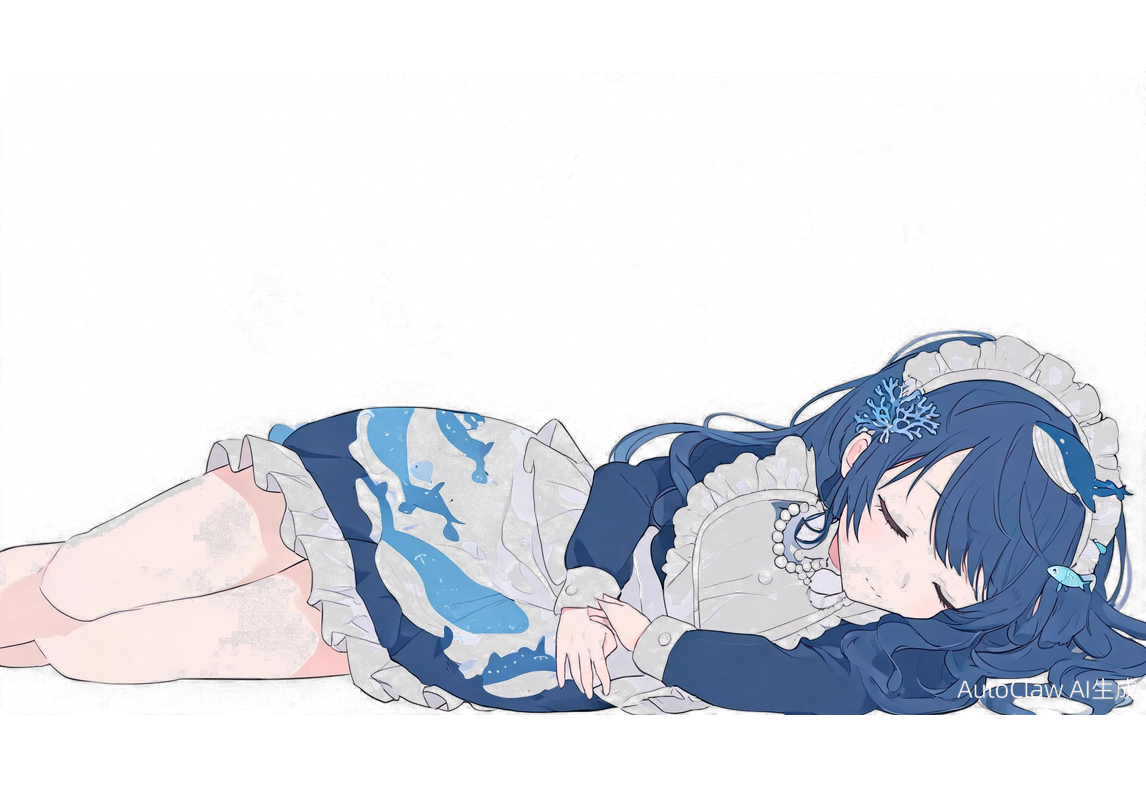
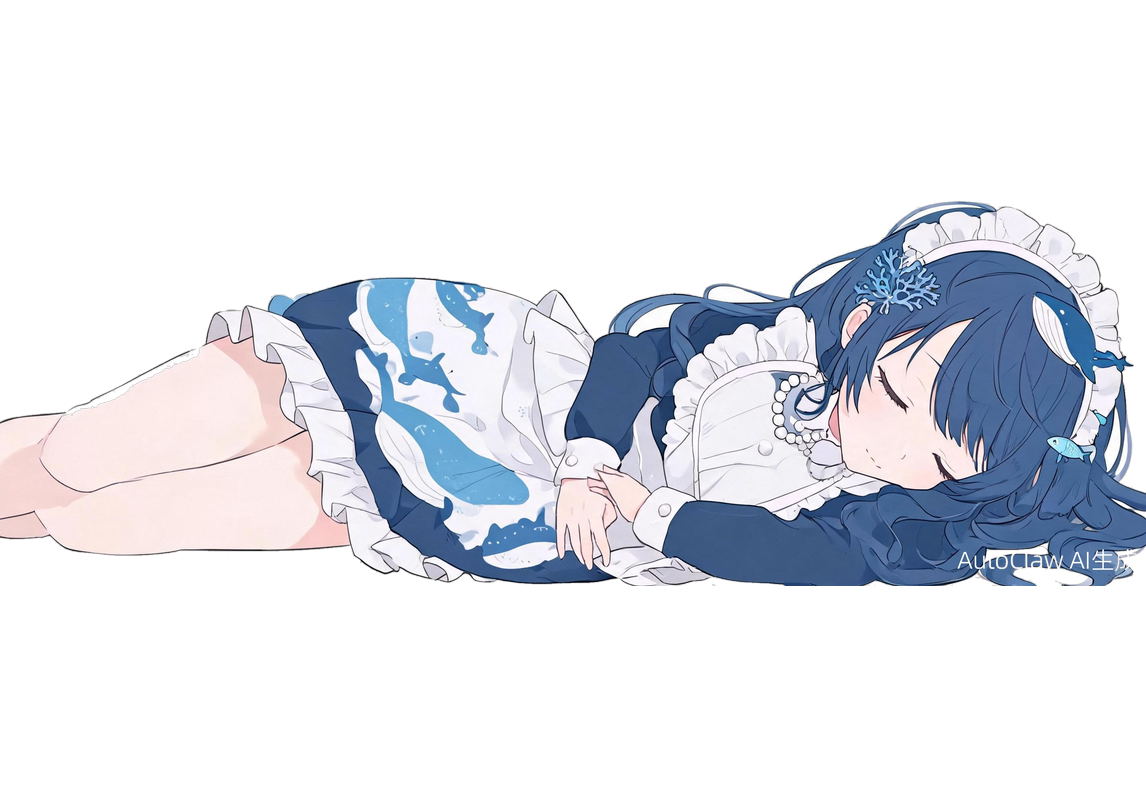
v6.56：pro 闭眼贴边图重抠(连通域+内部洞修复，左右+下，其他图未动) + 全局快捷键 Ctrl+Alt+O 截图OCR(截全屏→识别→发AI分析)

diff --git a/desktop_pet.py b/desktop_pet.py
@@ -676,8 +676,8 @@ BLINK_OFFSETS = {
 }
 
 
-def _hotkey_filter_factory(callback):
-    """创建全局热键过滤器（WM_HOTKEY）"""
+def _hotkey_filter_factory(callbacks):
+    """创建全局热键过滤器（WM_HOTKEY）。callbacks: {hotkey_id: callback}"""
     import ctypes.wintypes  # 必须显式导入（Python 3.14 中 ctypes.wintypes 不随 ctypes 自动加载）
     from PySide6.QtCore import QAbstractNativeEventFilter
     class _HotkeyFilter(QAbstractNativeEventFilter):
@@ -687,9 +687,11 @@ def _hotkey_filter_factory(callback):
                 et = bytes(eventType) if hasattr(eventType, '__bytes__') else str(eventType).encode('utf-8', 'ignore')
                 if b'windows_generic_MSG' in et:
                     msg = ctypes.wintypes.MSG.from_address(int(message))
-                    if msg.message == 0x0312 and msg.wParam == 1:  # WM_HOTKEY, id=1
-                        callback()
-                        return True, 0
+                    if msg.message == 0x0312:  # WM_HOTKEY
+                        cb = callbacks.get(msg.wParam)
+                        if cb:
+                            cb()
+                            return True, 0
             except Exception:
                 pass
             return False, 0
@@ -740,15 +742,19 @@ class PetWidget(QWidget):
         self.ai_status_signal.connect(self._update_ai_status)
         self.wakeup_signal.connect(self._display_wakeup)
         self.confirm_signal.connect(lambda fn: fn())  # 确认回调在主线程执行
-        # 全局快捷键 Ctrl+Alt+P 呼出
+        # 全局快捷键 Ctrl+Alt+P 呼出 / Ctrl+Alt+S 截图 OCR
         self._hotkey_installed = False
         try:
             app = QApplication.instance()
             if app is not None:
-                self._hotkey_filter = _hotkey_filter_factory(self._on_global_hotkey)
+                self._hotkey_filter = _hotkey_filter_factory({1: self._on_global_hotkey, 2: self._on_screenshot_hotkey})
                 app.installNativeEventFilter(self._hotkey_filter)
                 if ctypes.windll.user32.RegisterHotKey(None, 1, 0x0002 | 0x0001, 0x50):  # MOD_CONTROL|MOD_ALT, 'P'
                     self._hotkey_installed = True
+                try:
+                    ctypes.windll.user32.RegisterHotKey(None, 2, 0x0002 | 0x0001, 0x4F)  # Ctrl+Alt+O 截图 OCR
+                except Exception:
+                    pass
         except Exception:
             self._hotkey_installed = False
         # 对话记忆 + 定时提醒 + 贴边
@@ -3888,6 +3894,25 @@ class PetWidget(QWidget):
         self._append_chat('我', f'📷 [截图识别] {text}')
         self.ask_ai((f'（用户粘贴了一张截图，OCR 识别内容如下，请根据内容回答或处理）\n{text}'
                     if not is_en else f'(User pasted a screenshot. OCR result below; answer or act on it.)\n{text}'))
+
+    def _on_screenshot_hotkey(self):
+        """全局快捷键 Ctrl+Alt+S：截全屏 → OCR → 发给 AI 分析"""
+        try:
+            from PIL import ImageGrab
+            is_en = getattr(self, 'language', 'zh') == 'en'
+            self._append_chat('桌宠', '📸 截屏中…' if not is_en else '📸 Capturing…')
+            img = ImageGrab.grab()
+            path = os.path.join(BASE_DIR, '_screenshot_ocr.png')
+            img.save(path, 'PNG')
+            import threading
+            def worker():
+                try:
+                    self.ocr_signal.emit(self._ocr_image(path))
+                except Exception:
+                    pass
+            threading.Thread(target=worker, daemon=True).start()
+        except Exception as e:
+            self._append_chat('桌宠', f'截图失败：{e}' if not is_en else f'Capture failed: {e}')
 
     def _on_chat_input(self):
         """处理聊天输入：本地指令 / AI 对话（用户消息里的 [emotion:xxx]/[emotion=xxx] 也会触发立绘）"""
